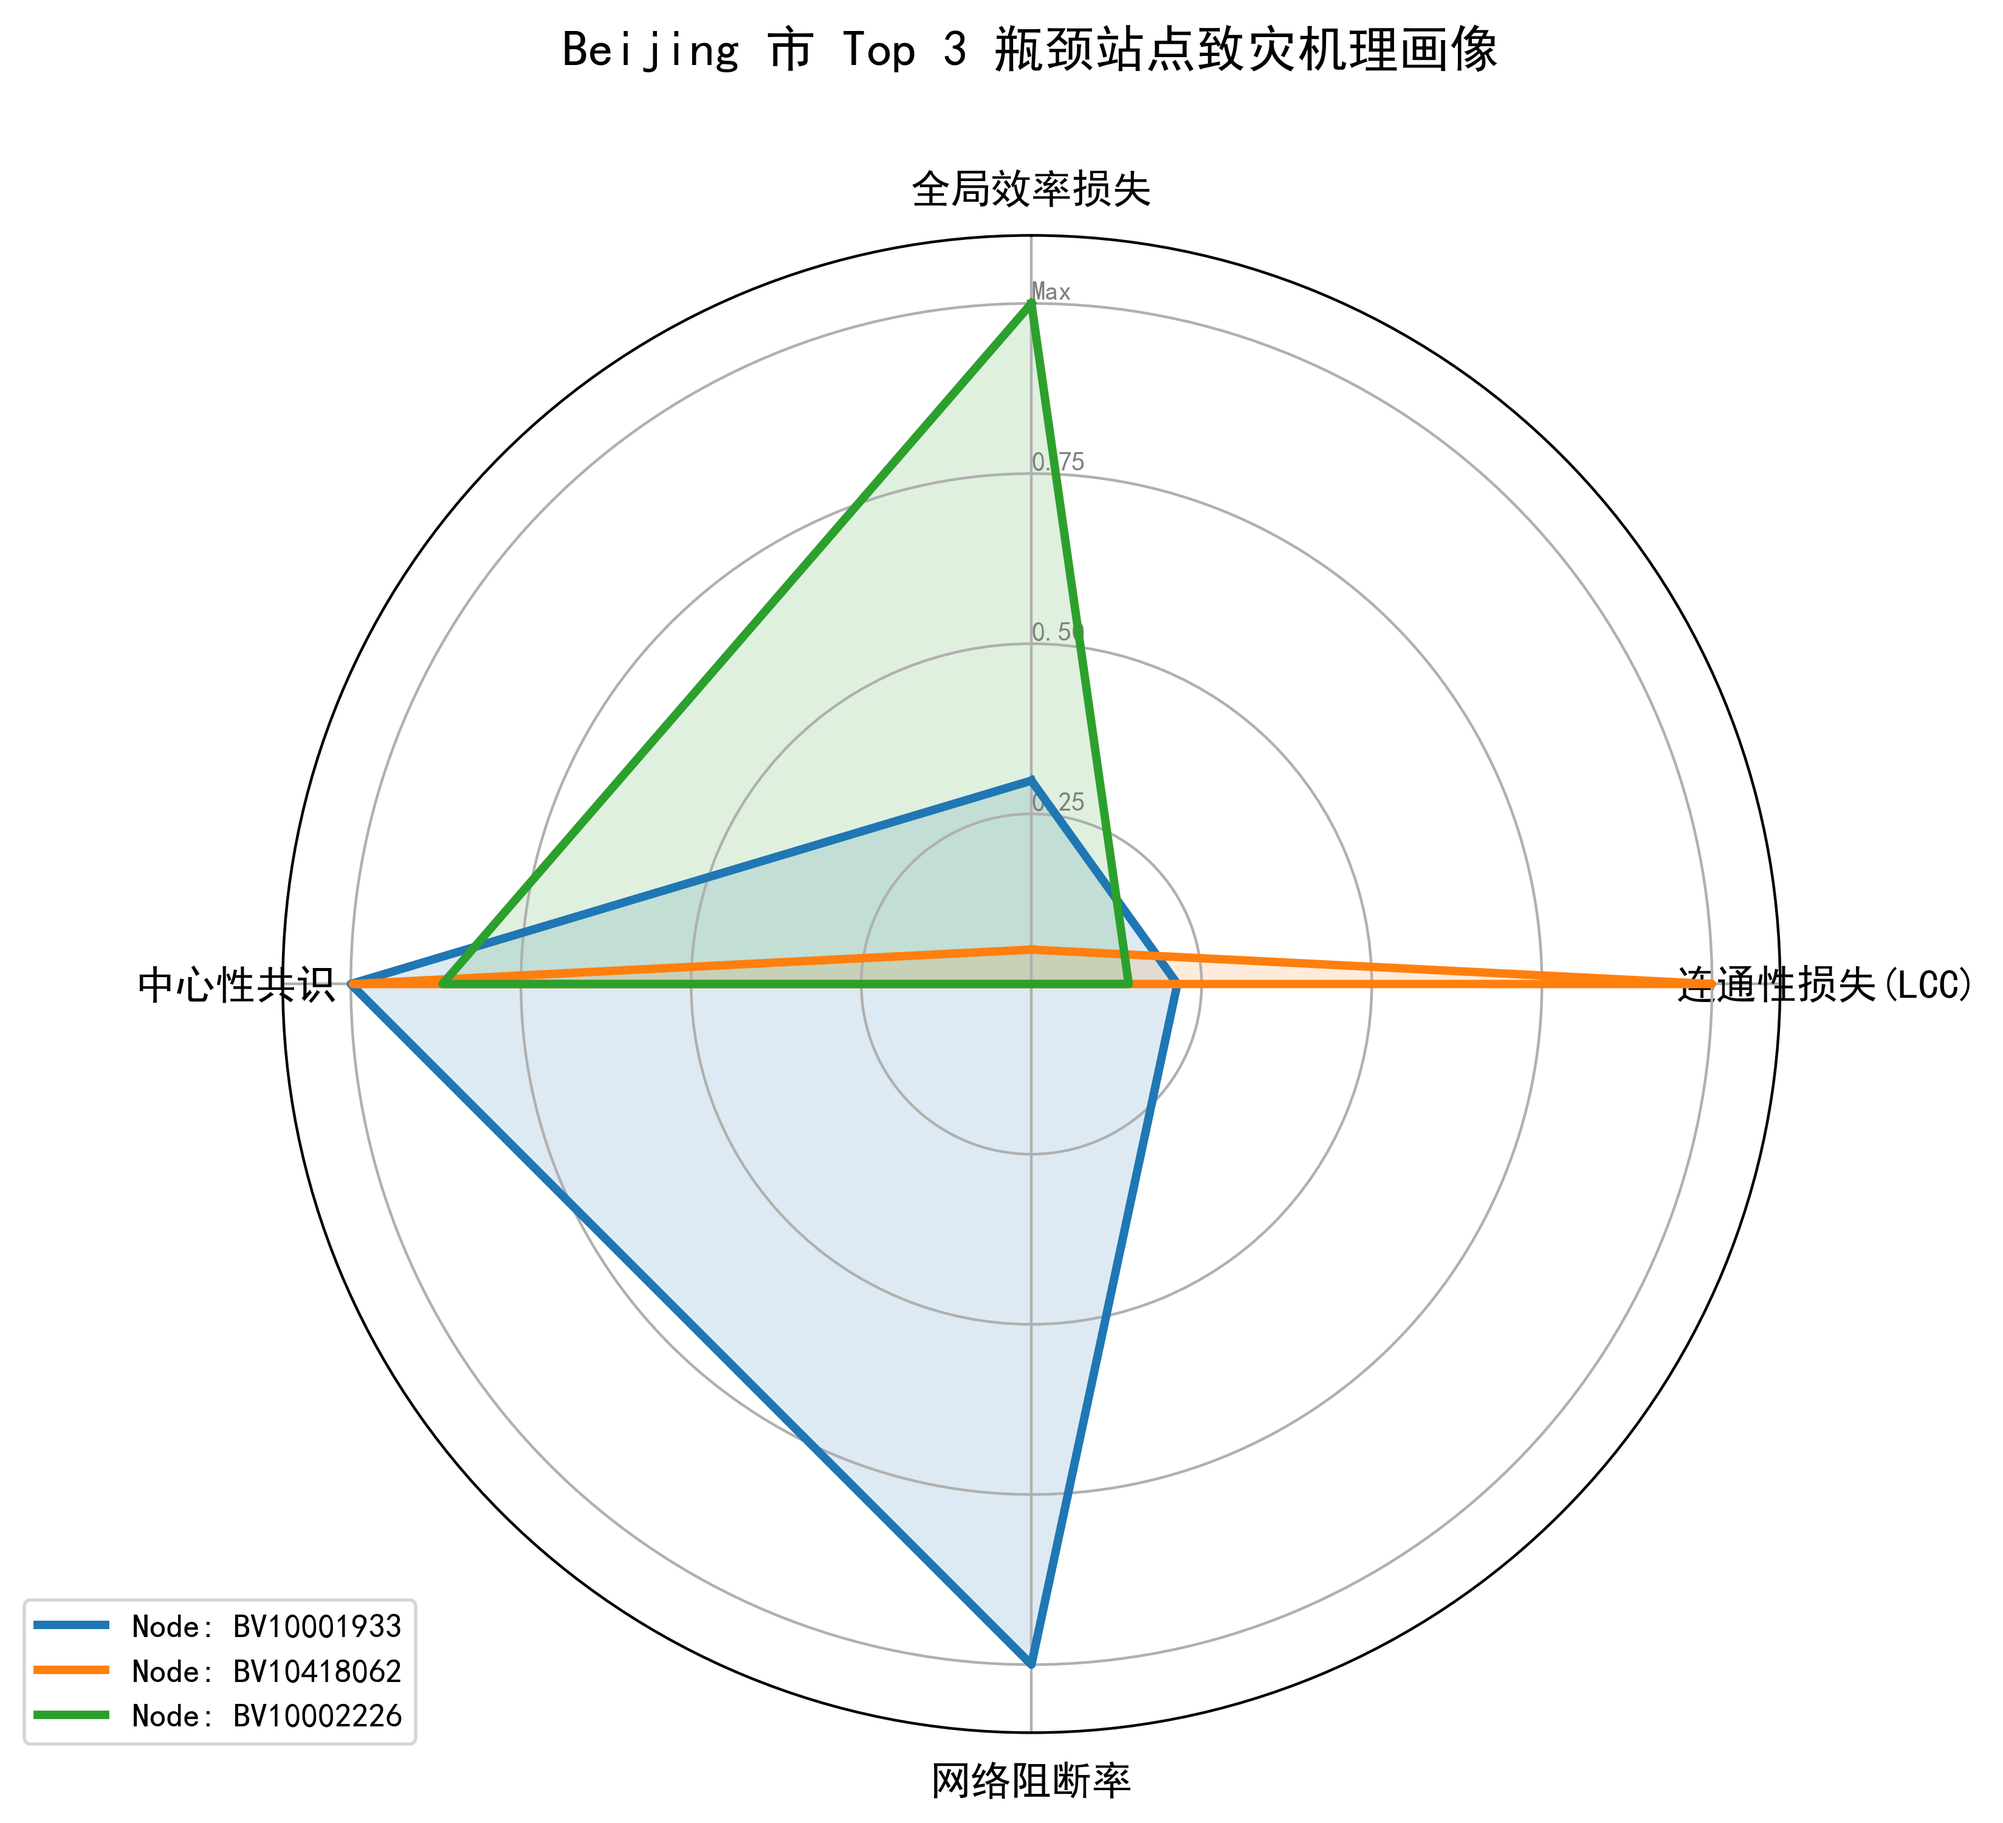
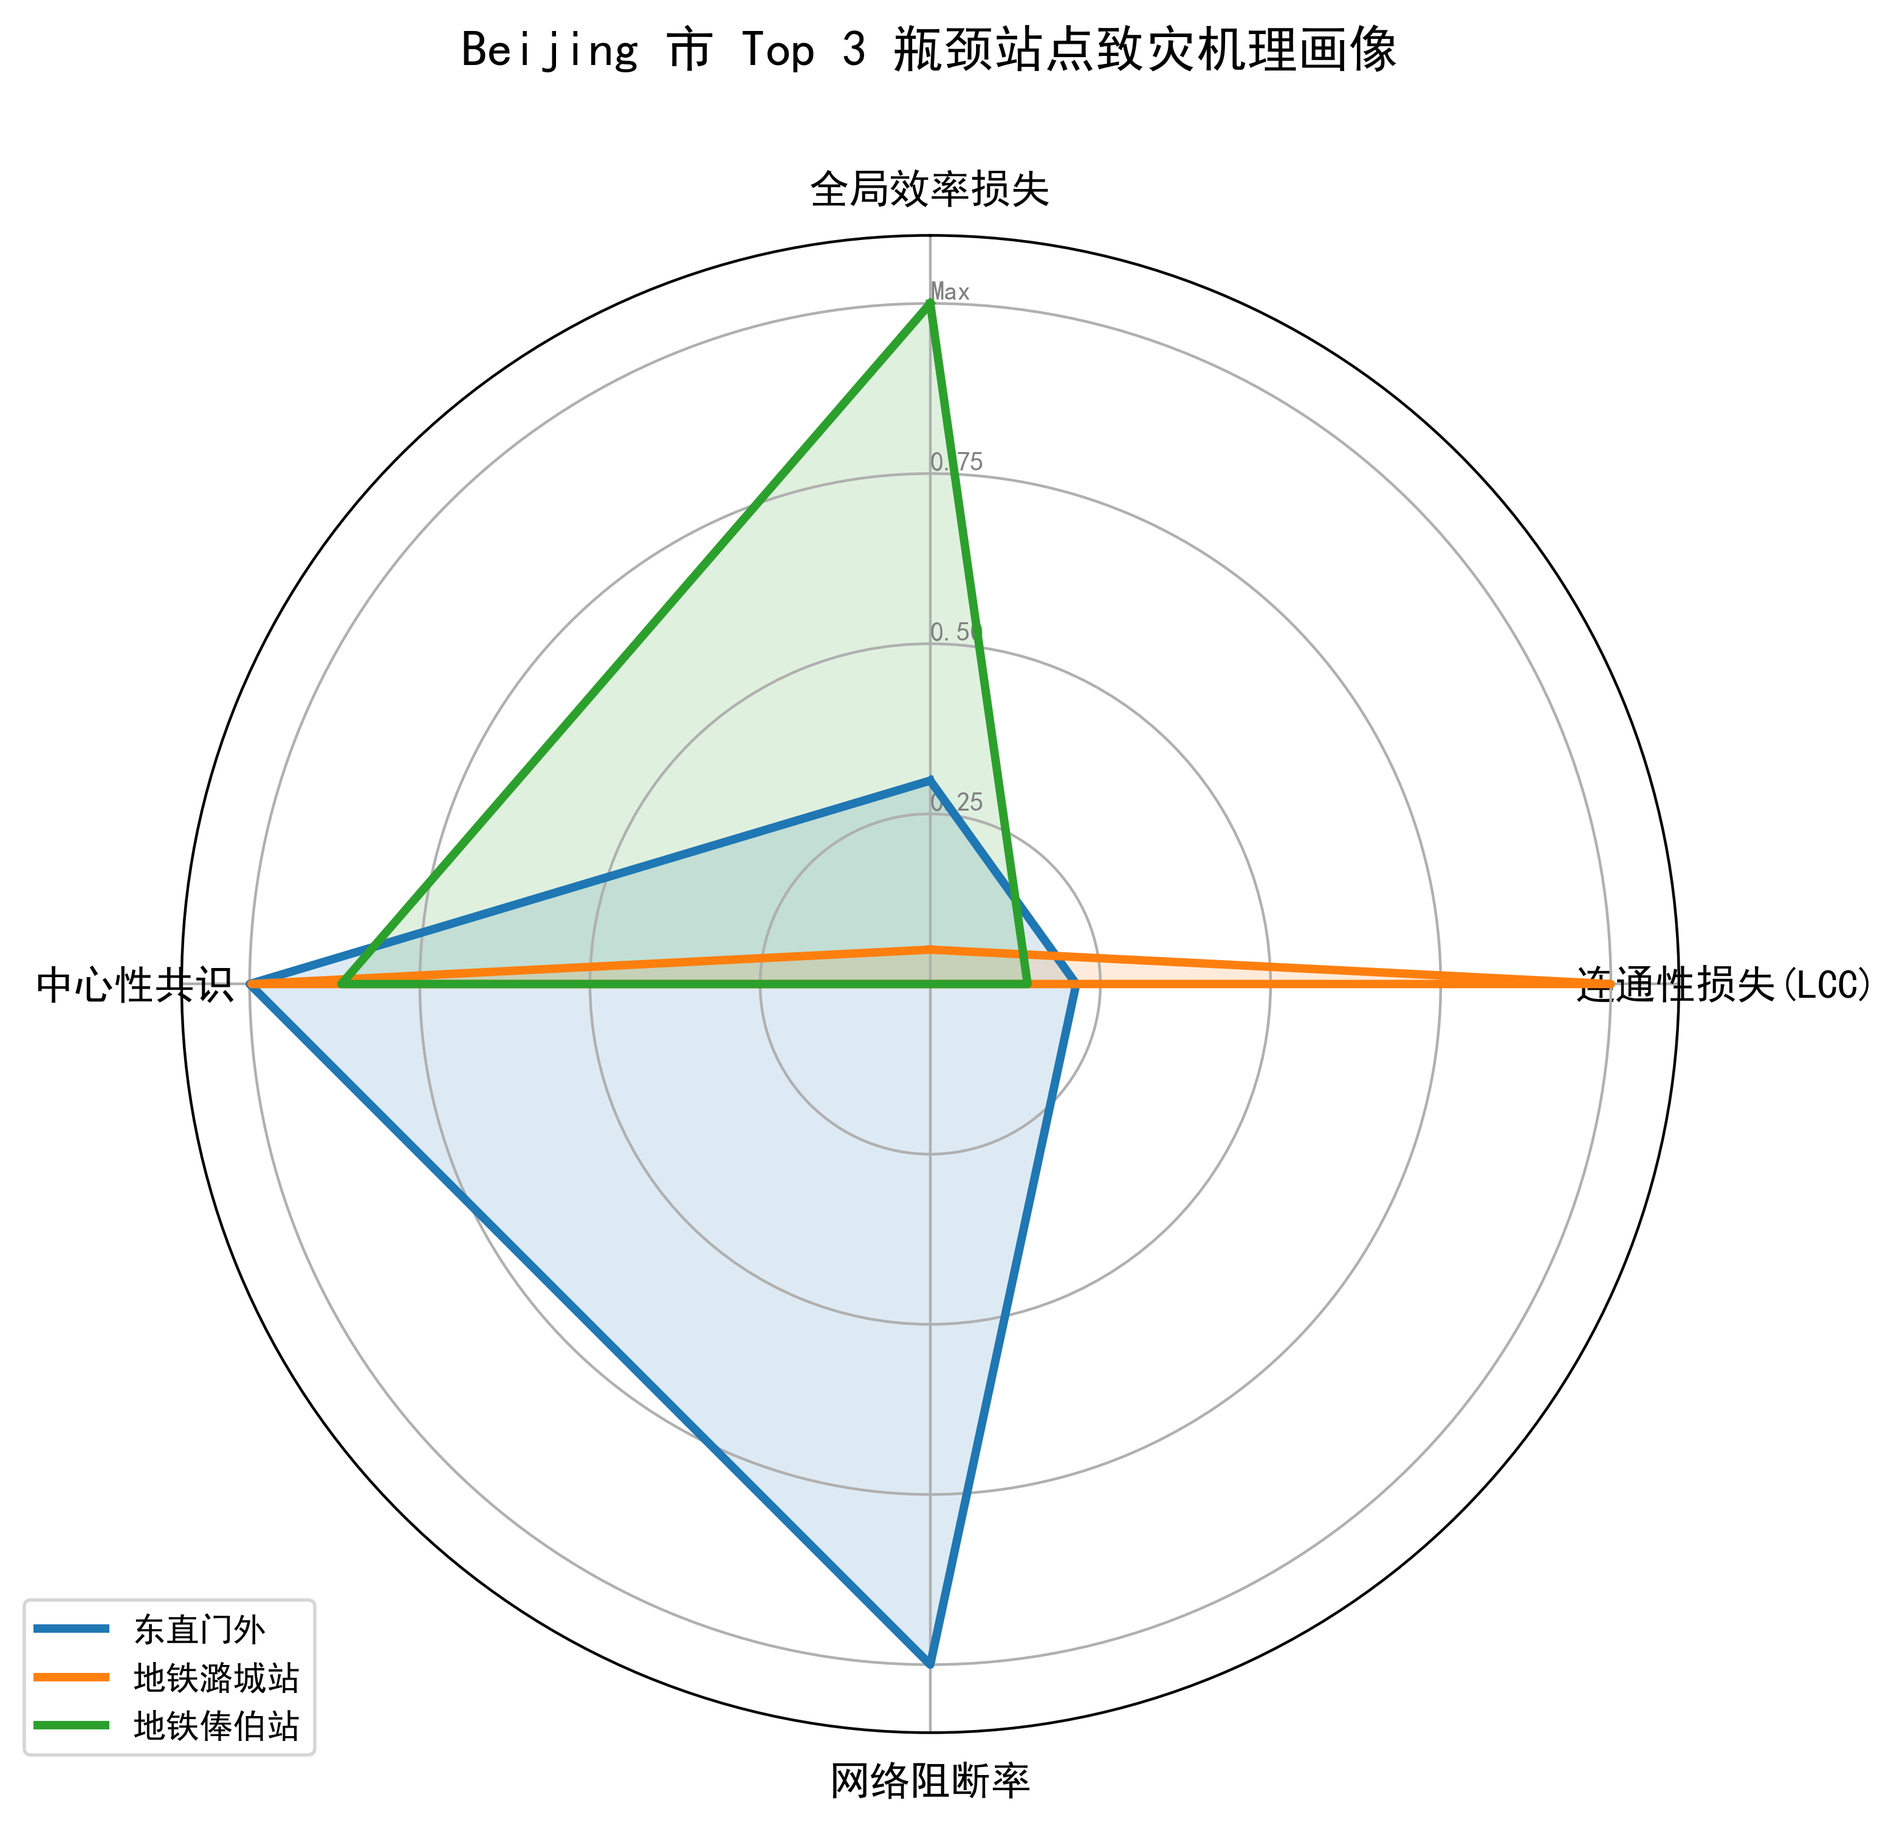
关键结点

diff --git a/print.py b/print.py
@@ -1,8 +1,10 @@
+import os
 import pandas as pd
 import matplotlib.pyplot as plt
 import seaborn as sns
 import numpy as np
 from math import pi
+import geopandas as gpd
 
 plt.rcParams['font.sans-serif'] = ['SimHei', 'DejaVu Sans']
 plt.rcParams['axes.unicode_minus'] = False
@@ -10,6 +12,39 @@ plt.rcParams['axes.unicode_minus'] = False
 # 1. 读取数据
 bot_df = pd.read_csv('output_bottleneck/all_cities_bottleneck.csv')
 stab_df = pd.read_csv('output_bottleneck/all_cities_stability.csv')
+
+# ================= 新增：站点名称查询与缓存系统 =================
+# 全局缓存，避免重复读取同一个城市的 shapefile，极大提升出图速度
+_station_name_cache = {}
+
+
+def get_station_name(city, node_id):
+    """根据城市名和节点ID，从 dbf 文件中查找真实的中文站名"""
+    # 提取真实的节点 ID (去除数据集中可能存在的 bus_ 或 metro_ 前缀)
+    real_node_id = str(node_id).split('_')[-1]
+
+    # 如果缓存中还没有这个城市的数据，去读取它
+    if city not in _station_name_cache:
+        _station_name_cache[city] = {}
+        # 同时尝试读取地铁和公交的 dbf 文件，建立完整的 ID->名称 映射字典
+        for mode in ['metro', 'bus']:
+            # 兼容大小写命名习惯 (先试原名，再试全小写)
+            dbf_path = f"./dataset/{mode}/shapefiles/{city}/{city}_{mode}_stops_unique.dbf"
+            if not os.path.exists(dbf_path):
+                dbf_path = f"./dataset/{mode}/shapefiles/{city}/{city.lower()}_{mode}_stops_unique.dbf"
+
+            if os.path.exists(dbf_path):
+                try:
+                    # 强制使用 utf-8 编码读取
+                    gdf = gpd.read_file(dbf_path, encoding='utf-8')
+                    for _, row in gdf.iterrows():
+                        _station_name_cache[city][row['stop_id']] = row['stop_cn']
+                except Exception as e:
+                    print(f"⚠ 读取 {dbf_path} 失败: {e}")
+
+    # 从缓存中查找站名，如果找不到（可能是数据缺失或路径不对），则退化返回原短 ID
+    return _station_name_cache[city].get(real_node_id, real_node_id)
+# ================================================================
 
 
 def plot_stability_quadrant(top_n_labels=12):
@@ -30,13 +65,11 @@ def plot_stability_quadrant(top_n_labels=12):
     plt.axvline(x=x_median, color='red', linestyle='--', alpha=0.5)
     plt.axhline(y=y_median, color='red', linestyle='--', alpha=0.5)
 
-    # plt.text(merged['mean_score'].max() * 0.8, merged['stability_score'].max() * 0.95,
-    #          '绝对瓶颈区\n(高破坏+高稳定)', fontsize=12, color='darkred', weight='bold')
     # 把 y 轴的乘数调小一点，让文字往下走，避开最高的那个点
     plt.text(merged['mean_score'].max() * 0.75, merged['stability_score'].max() * 0.85,
              '绝对瓶颈区\n(高破坏+高稳定)', fontsize=12, color='darkred', weight='bold')
 
-    # ================= 新增：高破坏高稳定点标注逻辑 =================
+    # ================= 高破坏高稳定点标注逻辑 =================
     # 1. 筛选出位于第一象限的点
     top_right = merged[(merged['mean_score'] > x_median) & (merged['stability_score'] > y_median)].copy()
 
@@ -47,14 +80,15 @@ def plot_stability_quadrant(top_n_labels=12):
     # 3. 提取排名前 N 的极值点
     top_nodes = top_right.sort_values('combined_score', ascending=False).head(top_n_labels)
 
-    # 4. 执行标注
+    # 4. 执行标注 (使用真实的站点名称)
     try:
         from adjustText import adjust_text
         texts = []
         for _, row in top_nodes.iterrows():
-            # 简化节点名称显示，例如将 "bus_BV12345" 简化为 "BV12345"
-            short_node = str(row['node']).split('_')[-1]
-            label = f"{row['city']}-{short_node}"
+            # 这里调用新的函数获取真实中文名
+            station_name = get_station_name(row['city'], row['node'])
+            label = f"{row['city']}-{station_name}"
+
             texts.append(plt.text(row['mean_score'], row['stability_score'], label,
                                   fontsize=9, color='black', weight='bold'))
 
@@ -66,8 +100,9 @@ def plot_stability_quadrant(top_n_labels=12):
         print("⚠ 未找到 adjustText 库。使用基础 matplotlib 标注，可能会有少许重叠。")
         print("💡 提示：运行 'pip install adjustText' 可获得更好的论文排版效果。")
         for _, row in top_nodes.iterrows():
-            short_node = str(row['node']).split('_')[-1]
-            label = f"{row['city']}-{short_node}"
+            station_name = get_station_name(row['city'], row['node'])
+            label = f"{row['city']}-{station_name}"
+
             plt.annotate(label,
                          (row['mean_score'], row['stability_score']),
                          textcoords="offset points",
@@ -120,9 +155,10 @@ def plot_radar_chart(city_name="Hohhot", top_n=3):
         values = row[categories].values.flatten().tolist()
         values += values[:1]
 
-        # 图例中显示短ID
-        short_node = str(row['node']).split('_')[-1]
-        ax.plot(angles, values, linewidth=2.5, linestyle='solid', label=f"Node: {short_node}", color=colors[i])
+        # 这里调用新的函数获取真实中文名
+        station_name = get_station_name(city_name, row['node'])
+
+        ax.plot(angles, values, linewidth=2.5, linestyle='solid', label=f"{station_name}", color=colors[i])
         ax.fill(angles, values, color=colors[i], alpha=0.15)
 
     plt.legend(loc='upper right', bbox_to_anchor=(0.1, 0.1))
@@ -133,5 +169,6 @@ def plot_radar_chart(city_name="Hohhot", top_n=3):
 
 
 # 执行出图
-# plot_stability_quadrant(top_n_labels=12)  # 你可以通过修改 12 来控制全图标注的数量
+# 你可以解除下面这行的注释来生成全新的散点图
+plot_stability_quadrant(top_n_labels=12)
 plot_radar_chart("Hohhot", 3)

diff --git a/站点名字.py b/站点名字.py
@@ -1,0 +1,54 @@
+import os
+import geopandas as gpd
+
+# 1. 设置你想查询的城市和对应的 node_id 列表
+city_name = "Hohhot"  # 你可以替换成任何你想查询的城市
+target_nodes = ["BV11401675"]
+
+print(f"\n🔍 --- 开始全网（地铁+公交）搜寻 {city_name} 的目标站点 --- \n")
+
+for node_id in target_nodes:
+    # 去掉可能存在的网络前缀，只保留核心 ID (防止传进来的是 bus_BV... 这种格式)
+    real_node_id = str(node_id).split('_')[-1]
+    found = False
+
+    # 2. 依次遍历 'metro' (地铁) 和 'bus' (公交) 两个数据源
+    for mode in ['metro', 'bus']:
+        # 拼接路径 (兼容首字母大写或全小写的情况)
+        dbf_path = f"./dataset/{mode}/shapefiles/{city_name}/{city_name}_{mode}_stops_unique.dbf"
+        if not os.path.exists(dbf_path):
+            dbf_path = f"./dataset/{mode}/shapefiles/{city_name}/{city_name.lower()}_{mode}_stops_unique.dbf"
+
+        # 如果文件存在，就进去翻找
+        if os.path.exists(dbf_path):
+            try:
+                gdf = gpd.read_file(dbf_path, encoding='utf-8')
+                # 在 stop_id 这一列中寻找匹配项
+                result = gdf[gdf['stop_id'] == real_node_id]
+
+                # 如果 result 不是空的，说明找到了！
+                if not result.empty:
+                    station_name = result['stop_cn'].values[0]
+
+                    # ==========================================================
+                    # 👉 按照您的要求，在这里打印出 节点、找到的地方 和 中文名
+                    # ==========================================================
+                    print(f"✅ 成功命中！")
+                    print(f"   🔹 节点 ID: {node_id}")
+                    print(f"   🔹 交通类型: {'🚌 公交系统' if mode == 'bus' else '🚇 地铁系统'}")
+                    print(f"   🔹 数据来源: {dbf_path}")
+                    print(f"   🔹 真实站名: 【 {station_name} 】")
+                    print(f"   -------------------------------------------------")
+
+                    found = True
+                    break  # 既然在这个网络里找到了，就不去另一个网络找了，直接跳出 mode 循环
+
+            except Exception as e:
+                print(f"⚠ 读取 {dbf_path} 失败: {e}")
+
+    # 如果两个文件夹都翻完了还没找到
+    if not found:
+        print(f"❌ 查找失败！节点 ID: {node_id} 在 {city_name} 的公交和地铁库中均未找到。请核对数据集是否完整。")
+        print(f"   -------------------------------------------------\n")
+
+print("🎯 搜寻完毕！")
